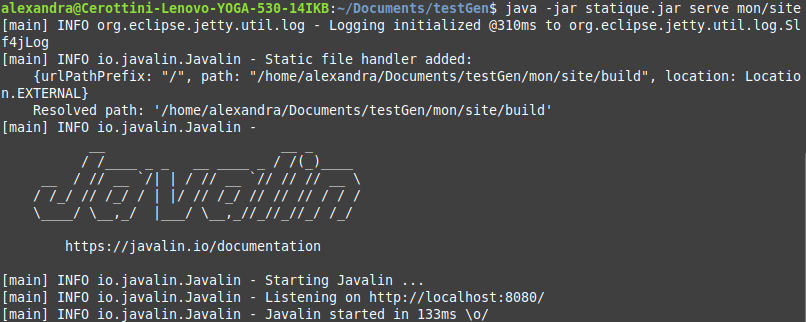
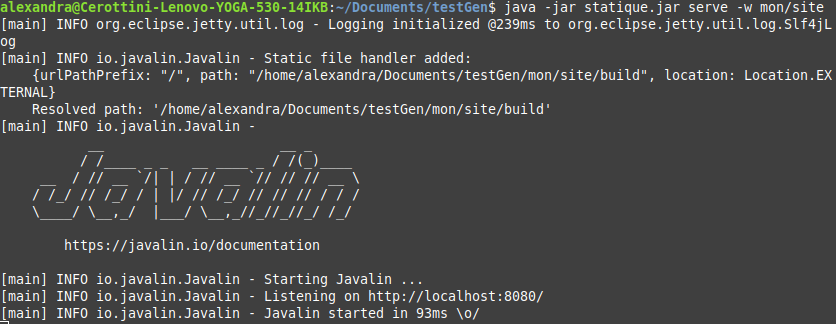
changements fait

diff --git a/manuel_utilisateur.md b/manuel_utilisateur.md
@@ -20,11 +20,11 @@ Pour initialiser le site statique, utilisez la commande `java -jar <release>.jar
 
 ### Build
 
-Pour compiler le site statique, utilisez la commande `java -jar <release>.jar build <dossier>`. Cette commande va créer un dossier `build` dans le dosser `<dossier>` contenant un fichier `index.html` ainsi que les fichiers `.md` transformé en `.html`.
+Pour compiler le site statique, utilisez la commande `java -jar <release>.jar build [-w] <dossier>`.  Le **-w** est optionnel. Il permet d'activer le file watcher. Si un fichier est modifié lors de l'exécution, il sera reconverti. Cette commande va créer un dossier `build` dans le dosser `<dossier>` contenant un fichier `index.html` ainsi que les fichiers `.md` transformé en `.html`.
 
 ### Serve
 
-Pour visualiser le résultat de la compilation dans un navigateur web, utilisez la commande `java -jar <release>.jar serve <dossier>`. Il suffit de taper `localhost:8080` sur un navigateur web pour visualiser le résultat. La page par défaut sera le `index.html`. Pour naviguer dans les autres fichier `.html`, il faut préciser leur chemin dans l'URL.
+Pour visualiser le résultat de la compilation dans un navigateur web, utilisez la commande `java -jar <release>.jar serve [-w] <dossier>`.  Le **-w** est optionnel. Il permet d'activer le file watcher. Si un fichier est modifié lors de l'exécution, il sera reconverti. Il suffit de taper `localhost:8080` sur un navigateur web pour visualiser le résultat. La page par défaut sera le `index.html`. Pour naviguer dans les autres fichier `.html`, il faut préciser leur chemin dans l'URL.
 
 ### Clean
 
@@ -127,7 +127,7 @@ Nous allons maintenant ajouter trois templates dans notre dossier `template` (en
 </html>
 ```
 
-Ce template
+Ce template comporte la particularité d'insérer un autre fichier avec `{{> menu}}`. Il insérera à cet emplacement le fichier `menu.html`.
 
 `menu.html`:
 
@@ -152,7 +152,7 @@ Ce template
 </html>
 ```
 
-
+Ce template va insérer un fichier `noMeta.md` ne comportant pas de metadatas.
 
 Nous allons également ajouter un dossier `content` à `mon/site`. Nous y créons deux fichiers Markdown.
 
@@ -206,13 +206,11 @@ ___
 
 Nous créons un dossier `images` dans lequel nous ajoutons nos deux images `Usage.png` et `putin.gif`.
 
-
-
-Nous allons dans un troisième temps compiler notre site statique avec la commande `java -jar <release>.jar build mon/site`.
+Nous allons dans un troisième temps compiler notre site statique et activer le fileWatcher avec la commande `java -jar <release>.jar build -w mon/site`.
 
 ![](images/build.png)
 
-Nous allons ensuite visualiser notre site statique avec la commande `java -jar <release>.jar serve mon/site`.
+Nous allons ensuite visualiser notre site statique et activer le fileWatcher avec la commande `java -jar <release>.jar serve -w mon/site`.
 
 ![](images/serve.png)
 
@@ -223,6 +221,14 @@ En allant sur un navigateur web et en tapant `localhost:8080`, nous sommes capab
 <img src="images/site2.png" alt="image-20210529011238919" style="zoom:67%;" />
 
 <img src="images/site3.png" alt="image-20210529011322179" style="zoom:67%;" />
+
+Nous remarquons tout à coup une faute d'ortographe dans le titre de la page.
+
+![](images/examble.png)
+
+Nous reprenons donc notre fichier `index.md` et modifions la premire ligne `title:MysuperbExamble` par `title:MysuperbExample`. Nous sauvgardons puis rechargeons la page du site web et nous voyons que la modification a bien été effectuée.
+
+![](images/example.png)
 
 Pour terminer, nous allons nettoyer notre site statique avec la commande `java -jar <release>.jar clean mon/site`.
 
